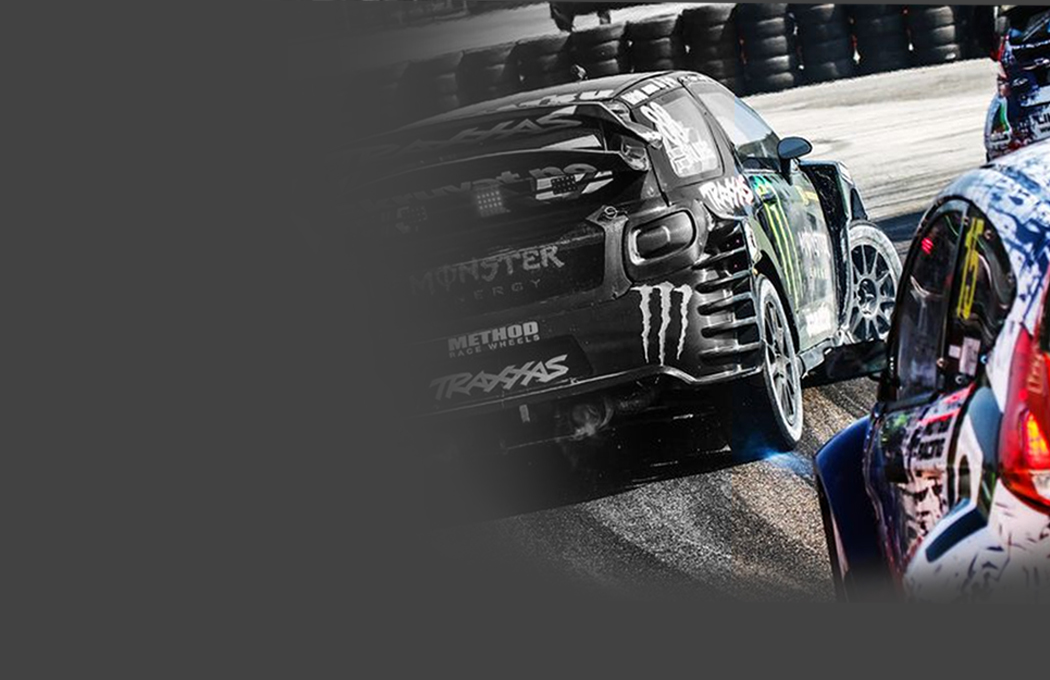
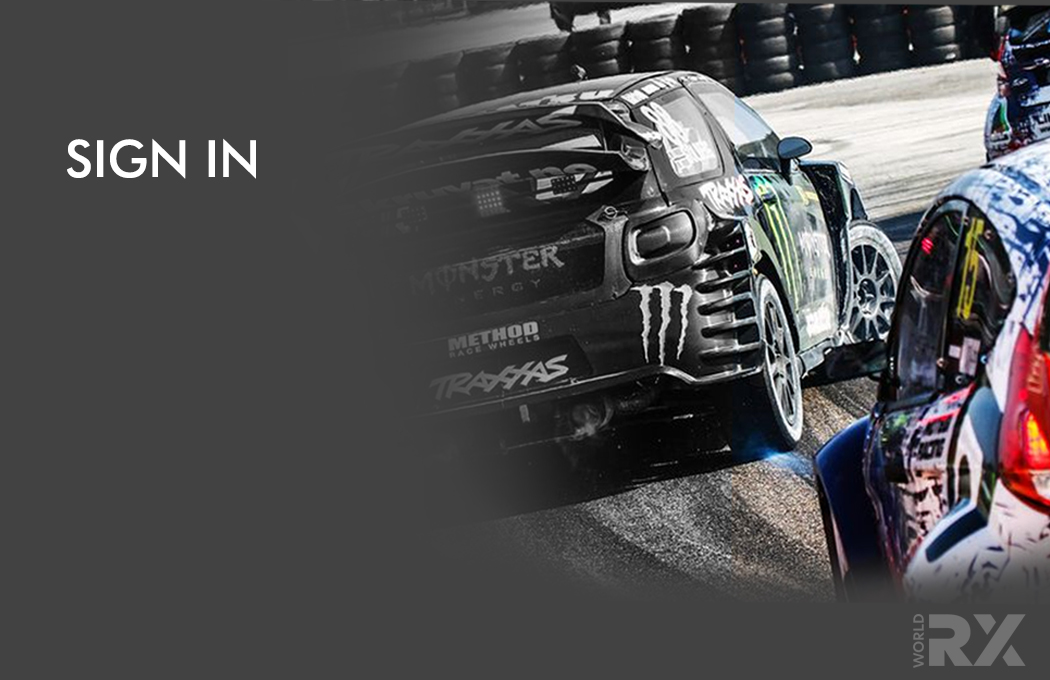
Race data implemented with the new changes in Race class structure changed Layout of the championhsip table and Race Table SignUp page completed

Changed region(s): [[0.061, 0.1853, 0.2438, 0.2779], [0.8533, 0.8956, 0.9752, 0.9882]]

diff --git a/RXapplicationGUI-master/src/main/resources/com/example/rxapplication/mainstylesheet.css b/RXapplicationGUI-master/src/main/resources/com/example/rxapplication/mainstylesheet.css
@@ -40,3 +40,19 @@
     -fx-background-color: #000000;
     -fx-text-fill: #ffffff;
 }
+.table-view .column-header,
+.table-view .column-header-background .filler {
+    -fx-background-color:  #dedcdc;
+}
+.table-view .column-header .label{
+   -fx-text-fill: black;
+   -fx-font-weight: bold;
+   -fx-alignment: CENTER_LEFT;
+}
+.table-view .cell{
+   -fx-cell-size: 35;
+  -fx-alignment: center-left;
+  -fx-background-color: #f0f0f0;
+  -fx-text-fill: #262626;
+  -fx-alignment: CENTER_LEFT;
+}

diff --git a/RXapplicationGUI-master/src/main/java/com/example/rxapplication/Controller.java b/RXapplicationGUI-master/src/main/java/com/example/rxapplication/Controller.java
@@ -44,6 +44,7 @@ public class Controller {
     @FXML private TextField emailInput;
     @FXML private PasswordField passwordInput;
     @FXML private Button signInButton,continueToApp;
+    @FXML private Label emailInputMessage,passwordInputMessage;
     //main screen elements(Home page)
     @FXML private Button refreshButton,viewRaceDataButton;//all the labels in the mainScreen are stored here, each an every cell in the Last race Table. Last Race Highlights is an improvement to program, and also Top2 head to head.
     @FXML private Label lrhPos1Label,lrhName1Label,lrhCar1Label,lrhPoints1Label,lrhPos2Label,lrhName2Label,lrhCar2Label,lrhPoints2Label,lrhPos3Label,lrhName3Label,lrhCar3Label,lrhPoints3Label,lrhLocationLabel,lrhDateLabel,firstPlaceDriverFname,firstPlaceDriverLname,secondPlaceDriverFname,secondPlaceDriverLname,firstPlaceDriverWins,firstPlaceDriverTop3,secondPlaceDriverTop3,secondPlaceDriverWins;
@@ -104,21 +105,41 @@ public class Controller {
     public void validateFields() throws IOException, ClassNotFoundException {
         admins=readFromFileAdminData();
         String emailEntered = emailInput.getText().toString();
-        String adminFullName = null;
+        String adminFullName;
+        boolean loginSuccessfull = false;
+        boolean fieldEmpty = false;
+        if (emailInput.getText().toString().equals("")) {//checks if the first name input field is blank
+            emailInputMessage.setText("Cannot be empty");//displays a message to the user to re-enter;
+            fieldEmpty=true;
+        }else {
+            emailInputMessage.setText("");
+        }
+        if(passwordInput.getText().equals("")){
+            passwordInputMessage.setText("Cannot be empty");
+            fieldEmpty=true;
+        }else{
+            passwordInputMessage.setText("");
+        }
+
         for (Admin admin:admins){
             if (admin.getEmail().equals(emailEntered)){
                 if (admin.getPassword().equals(passwordInput.getText())){
                     signInButton.setOpacity(0.0f);
                     continueToApp.setOpacity(1.0f);
+                    loginSuccessfull=true;
+                    fieldEmpty=false;
                     adminFullName = admin.getDetails();
+                    System.out.println(opertionTime()+" "+adminFullName+" : Logged in.");
+                    passwordInputMessage.setText("");
                     break;
                 }
-                System.out.println("Invalid Username or password");
-                break;
             }
         }
+        if (!loginSuccessfull && !fieldEmpty){
+            passwordInputMessage.setText("Invalid Username or password");
+        }
         writeToFileAdminData(admins);
-        System.out.println(opertionTime()+" "+adminFullName+" : Logged in.");
+
 
     }
     public void onUserIconClicked(){
@@ -828,12 +849,13 @@ public class Controller {
         stage.setTitle("Championship standings");
         stage.show();
         stage.setResizable(false);
+        System.out.println(opertionTime()+" : Sorted data according to descending order of points ");
     }
     public void onRefreshButtonVCTWindowClicked() throws IOException, ClassNotFoundException { //This is to populate the fields of table view with the realvent data type
         drivers = readFromFileChampionshipData();
         refreshButtonVCTWindow.setOpacity(0.0f);//once clicked the refresh button dissapears
-        firstnameColumnChampionshipData.setCellValueFactory(new PropertyValueFactory<Driver,String>("Fname"));// this sets the value which is stored under the fname property of the drivers object
-        lastnameColumnChampionshipData.setCellValueFactory(new PropertyValueFactory<Driver,String>("Lname"));
+        firstnameColumnChampionshipData.setCellValueFactory(new PropertyValueFactory<Driver,String>("Details"));// this sets the value which is stored under the fname property of the drivers object
+        //lastnameColumnChampionshipData.setCellValueFactory(new PropertyValueFactory<Driver,String>("Details"));
         ageColumnChampionshipData.setCellValueFactory(new PropertyValueFactory<Driver, Integer>("Age"));
         teamColumnChampionshipData.setCellValueFactory(new PropertyValueFactory<Driver,String>("Team"));
         carColumnChampionshipData.setCellValueFactory(new PropertyValueFactory<Driver,String>("Car"));
@@ -862,7 +884,7 @@ public class Controller {
                 }
             }
         }
-        System.out.println(opertionTime()+" : Sorted data according to descending order of points ");
+
         return drivers;//returns the sorted list, implementation from https://www.geeksforgeeks.org/bubble-sort/
     }
 
@@ -877,6 +899,7 @@ public class Controller {
         stage.setTitle("Championship standings");
         stage.show();
         stage.setResizable(false);
+        System.out.println(opertionTime()+" : Sorted data according ascending order of date.");
     }
     public void onRefreshButtonVRLWindowClicked() throws IOException, ClassNotFoundException {
         races=readFromFileRaceData();
@@ -894,7 +917,7 @@ public class Controller {
             for (Driver driver : driversFromRace) {
                 String date = race.getDate();
                 String location = race.getLocation();
-                String name = driver.getFname().toString() + "  " + driver.getLname().toString();
+                String name = driver.getDetails();
                 int points = 0;
                 if (index == 0) {
                     points = 10;
@@ -939,7 +962,6 @@ public class Controller {
 
             }
         }
-        System.out.println(opertionTime()+" : Sorted data according ascending order of date.");
         return races;//sends back the sorted list of races according to date
     }
 
